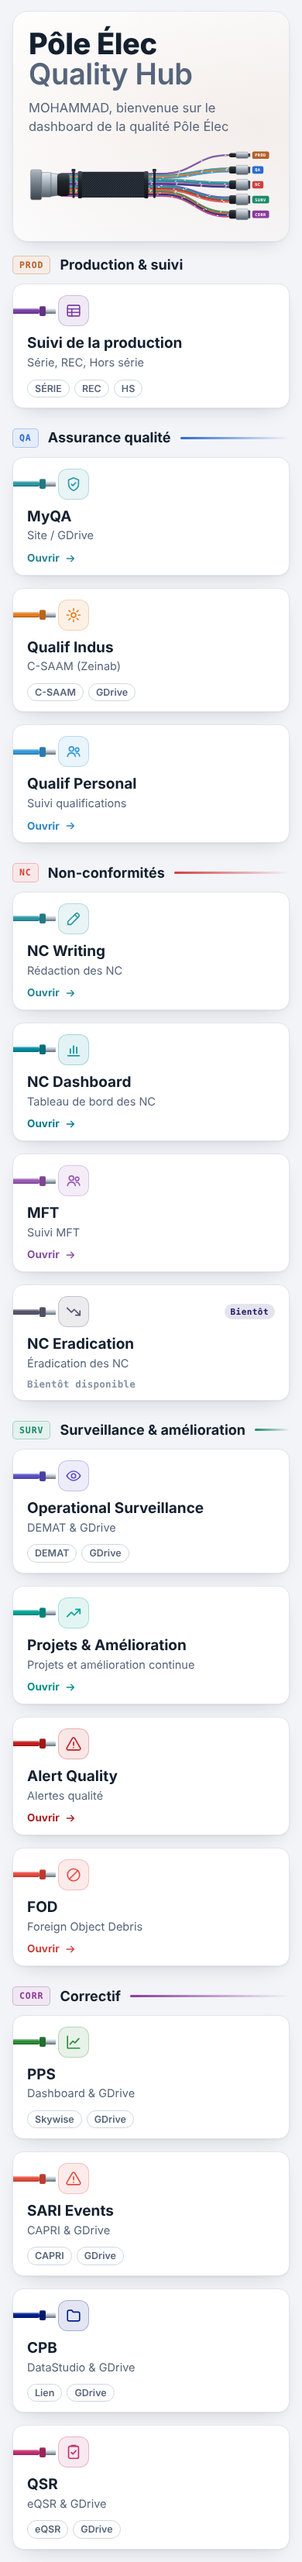
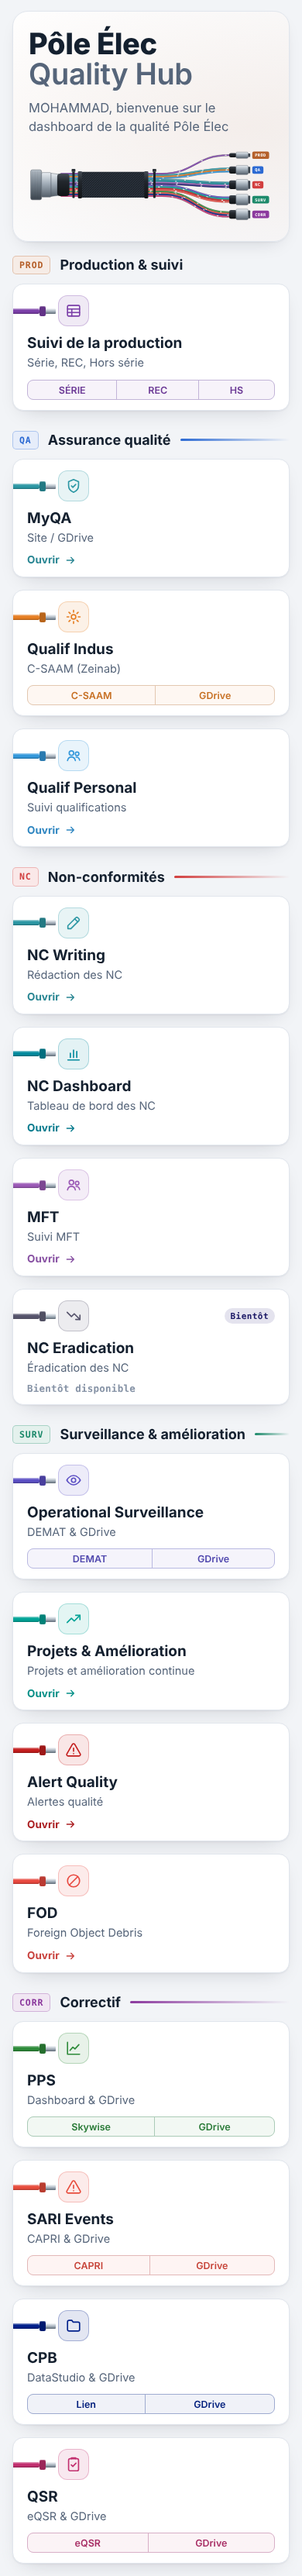
Hub: several links as one segmented bar in the card's colour
Tools with several links get one bar of buttons across the bottom of the
card, tinted with the card's colour, one segment per link, instead of
separate grey pills; the card itself no longer lifts on hover since only
the buttons are links. Slate parts, previews and README updated.

Claude-Session: https://claude.ai/code/session_017pLD4XkEhj6BKkNzrEKz3H

diff --git a/09_pole_elec_hub/hub/pole_elec_hub.html b/09_pole_elec_hub/hub/pole_elec_hub.html
@@ -60,8 +60,16 @@ h1 span{display:block;color:var(--muted);font-weight:600}
 .stretch::after{content:"";position:absolute;inset:0;z-index:1;border-radius:14px}
 .guide{position:relative;z-index:2;margin-left:auto;font:600 12.5px/1 "Segoe UI",system-ui,sans-serif;color:var(--muted);text-decoration:none;border:1px solid var(--line-2);border-radius:20px;padding:5px 9px 4px}
 .guide:hover,.guide:focus-visible{color:var(--text);border-color:var(--muted);outline:none}
-.links{position:relative;z-index:2;display:flex;flex-wrap:wrap;gap:6px}
-.links .guide{margin:0}
+/* several links: one segmented control across the card, in its colour, one segment per link (the 1 px gaps
+   show the frame colour as dividers, also when the segments wrap). The card itself is not a link,
+   so it does not lift on hover. */
+.seg{position:relative;z-index:2;flex:1;display:flex;flex-wrap:wrap;gap:1px;border-radius:8px;overflow:hidden;
+  background:color-mix(in srgb,var(--w) 30%,var(--line));border:1px solid color-mix(in srgb,var(--w) 30%,var(--line))}
+.seg a{flex:1 1 auto;text-align:center;padding:5px 10px 4px;font:600 12.5px/1.2 "Segoe UI",system-ui,sans-serif;white-space:nowrap;text-decoration:none;
+  color:color-mix(in srgb,var(--w) 85%,var(--text));background:color-mix(in srgb,var(--w) 6%,var(--surface));transition:background-color .15s,color .15s}
+.seg a:hover{background:color-mix(in srgb,var(--w) 16%,var(--surface));color:var(--text)}
+.seg a:focus-visible{outline:2px solid var(--w);outline-offset:-2px}
+.card.multi:hover,.card.multi:focus-within{transform:none}
 .soon-b{margin-left:auto;font:600 11px/1 Consolas,"Cascadia Mono",monospace;letter-spacing:.04em;padding:5px 8px 4px;border-radius:20px;background:color-mix(in srgb,var(--w) 12%,var(--surface));color:color-mix(in srgb,var(--w) 80%,var(--text))}
 .card.soon .ib,.card.soon .wire,.card.soon .collar{filter:saturate(.35);opacity:.75}
 .card.noname{border-style:dashed;border-color:var(--line-2);box-shadow:none;background:var(--surface-2)}
@@ -97,7 +105,7 @@ h1 span{display:block;color:var(--muted);font-weight:600}
 .dense .soon-b{font-size:10px;padding:4px 6px 3px}
 .dense .card h3{margin-top:7px;font-size:16px}
 .dense .card p{font-size:13px;line-height:1.35}
-.dense .links{gap:5px}
+.dense .seg a{padding:4px 8px 3px;font-size:12px}
 .dense .guide{font-size:12px;padding:4px 7px 3px}
 .dense .open{font-size:13px}
 .dense .nolink .open,.dense .soon .open{font-size:11.5px}
@@ -311,12 +319,12 @@ if(!C||!Array.isArray(C.groups)){
         const multi=Array.isArray(t.links), list=multi?t.links.filter(l=>l&&!todo(l.url)):[];
         const state=t.soon?"soon":(multi?list.length:!todo(t.link))?"link":"nolink";
         const cls=" "+state+(noName(t.name)?" noname":"")+(multi?" multi":"");
-        const a=(u,label,c)=>'<a class="'+c+'" href="'+esc(u)+'" target="_blank" rel="noopener">'+esc(label)+'</a>';
+        const a=(u,label,c)=>'<a'+(c?' class="'+c+'"':'')+' href="'+esc(u)+'" target="_blank" rel="noopener">'+esc(label)+'</a>';
         const guide=t.guide&&!todo(t.guide)?a(t.guide,"Guide utilisateur","guide"):'';
         const name=state==="link"&&!multi?a(t.link,t.name,"stretch"):esc(t.name);
         const foot=state==="soon"?'<span class="open">Bientôt disponible</span>'
                   :state==="nolink"?'<span class="open">Lien à compléter</span>'
-                  :multi?'<span class="links">'+list.map(l=>a(l.url,l.name,"guide")).join("")+guide+'</span>'
+                  :multi?'<span class="seg">'+list.map(l=>a(l.url,l.name,"")).join("")+'</span>'+guide
                   :'<span class="open">Ouvrir '+svgI("arrow")+'</span>'+guide;
         const inner='<span class="c-top"><i class="wire"></i><i class="collar"></i><i class="ferr"></i><span class="ib">'+svgI(t.icon)+'</span>'
           +(state==="soon"?'<span class="soon-b">Bientôt</span>':'')+'</span>'

diff --git a/09_pole_elec_hub/slate/hub.css b/09_pole_elec_hub/slate/hub.css
@@ -53,8 +53,16 @@ h1 span{display:block;color:var(--muted);font-weight:600}
 .stretch::after{content:"";position:absolute;inset:0;z-index:1;border-radius:14px}
 .guide{position:relative;z-index:2;margin-left:auto;font:600 12.5px/1 "Segoe UI",system-ui,sans-serif;color:var(--muted);text-decoration:none;border:1px solid var(--line-2);border-radius:20px;padding:5px 9px 4px}
 .guide:hover,.guide:focus-visible{color:var(--text);border-color:var(--muted);outline:none}
-.links{position:relative;z-index:2;display:flex;flex-wrap:wrap;gap:6px}
-.links .guide{margin:0}
+/* several links: one segmented control across the card, in its colour, one segment per link (the 1 px gaps
+   show the frame colour as dividers, also when the segments wrap). The card itself is not a link,
+   so it does not lift on hover. */
+.seg{position:relative;z-index:2;flex:1;display:flex;flex-wrap:wrap;gap:1px;border-radius:8px;overflow:hidden;
+  background:color-mix(in srgb,var(--w) 30%,var(--line));border:1px solid color-mix(in srgb,var(--w) 30%,var(--line))}
+.seg a{flex:1 1 auto;text-align:center;padding:5px 10px 4px;font:600 12.5px/1.2 "Segoe UI",system-ui,sans-serif;white-space:nowrap;text-decoration:none;
+  color:color-mix(in srgb,var(--w) 85%,var(--text));background:color-mix(in srgb,var(--w) 6%,var(--surface));transition:background-color .15s,color .15s}
+.seg a:hover{background:color-mix(in srgb,var(--w) 16%,var(--surface));color:var(--text)}
+.seg a:focus-visible{outline:2px solid var(--w);outline-offset:-2px}
+.card.multi:hover,.card.multi:focus-within{transform:none}
 .soon-b{margin-left:auto;font:600 11px/1 Consolas,"Cascadia Mono",monospace;letter-spacing:.04em;padding:5px 8px 4px;border-radius:20px;background:color-mix(in srgb,var(--w) 12%,var(--surface));color:color-mix(in srgb,var(--w) 80%,var(--text))}
 .card.soon .ib,.card.soon .wire,.card.soon .collar{filter:saturate(.35);opacity:.75}
 .card.noname{border-style:dashed;border-color:var(--line-2);box-shadow:none;background:var(--surface-2)}
@@ -90,7 +98,7 @@ h1 span{display:block;color:var(--muted);font-weight:600}
 .dense .soon-b{font-size:10px;padding:4px 6px 3px}
 .dense .card h3{margin-top:7px;font-size:16px}
 .dense .card p{font-size:13px;line-height:1.35}
-.dense .links{gap:5px}
+.dense .seg a{padding:4px 8px 3px;font-size:12px}
 .dense .guide{font-size:12px;padding:4px 7px 3px}
 .dense .open{font-size:13px}
 .dense .nolink .open,.dense .soon .open{font-size:11.5px}

diff --git a/09_pole_elec_hub/slate/hub.js b/09_pole_elec_hub/slate/hub.js
@@ -171,12 +171,12 @@ if(!C||!Array.isArray(C.groups)){
         const multi=Array.isArray(t.links), list=multi?t.links.filter(l=>l&&!todo(l.url)):[];
         const state=t.soon?"soon":(multi?list.length:!todo(t.link))?"link":"nolink";
         const cls=" "+state+(noName(t.name)?" noname":"")+(multi?" multi":"");
-        const a=(u,label,c)=>'<a class="'+c+'" href="'+esc(u)+'" target="_blank" rel="noopener">'+esc(label)+'</a>';
+        const a=(u,label,c)=>'<a'+(c?' class="'+c+'"':'')+' href="'+esc(u)+'" target="_blank" rel="noopener">'+esc(label)+'</a>';
         const guide=t.guide&&!todo(t.guide)?a(t.guide,"Guide utilisateur","guide"):'';
         const name=state==="link"&&!multi?a(t.link,t.name,"stretch"):esc(t.name);
         const foot=state==="soon"?'<span class="open">Bientôt disponible</span>'
                   :state==="nolink"?'<span class="open">Lien à compléter</span>'
-                  :multi?'<span class="links">'+list.map(l=>a(l.url,l.name,"guide")).join("")+guide+'</span>'
+                  :multi?'<span class="seg">'+list.map(l=>a(l.url,l.name,"")).join("")+'</span>'+guide
                   :'<span class="open">Ouvrir '+svgI("arrow")+'</span>'+guide;
         const inner='<span class="c-top"><i class="wire"></i><i class="collar"></i><i class="ferr"></i><span class="ib">'+svgI(t.icon)+'</span>'
           +(state==="soon"?'<span class="soon-b">Bientôt</span>':'')+'</span>'

diff --git a/09_pole_elec_hub/README.md b/09_pole_elec_hub/README.md
@@ -20,7 +20,7 @@ Content: Mohammad's own list of 21 Oct (links, groups and the tools with several
 - **Surveillance & amélioration:** Operational Surveillance (DEMAT, GDrive), Projets & Amélioration, Alert Quality, FOD.
 - **Correctif:** PPS (Skywise, GDrive), SARI Events (CAPRI, GDrive), CPB (Lien, GDrive), QSR (eQSR, GDrive).
 
-A tool with `links` shows one button per link instead of "Ouvrir"; a tool with a single `link` opens from anywhere on its card.
+A tool with `links` shows, instead of "Ouvrir", one bar of buttons across the bottom of its card, in the card's colour, one segment per link; only the buttons are clickable, so that card does not lift on hover. A tool with a single `link` opens from anywhere on its card.
 
 On a wide screen the page has eight cards per row, all the same size, and groups share a row while they fit: Production & suivi, Assurance qualité and Non-conformités (1 + 3 + 4) on the first row, Surveillance & amélioration and Correctif (4 + 4) on the second. Both rows split after the fourth card, so the page gets a wider gap there and reads as a left half and a right half. Everything is visible at once on a 1440 × 900 screen. Between 1000 and 1240 px wide there are four cards per row; below 1000 px the groups go one per row with two cards per row, and on a phone the cards stack.
 
